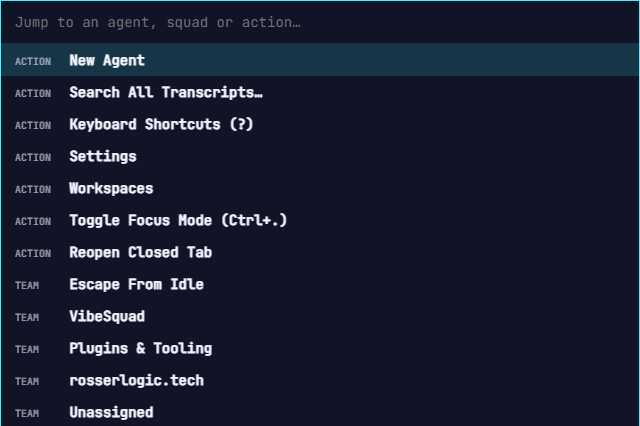
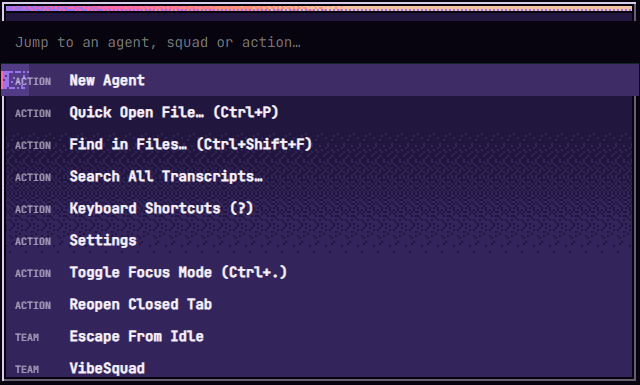
Gate 23: /vibesquad v0.3.0 how-it-works deep-dive, P0 j8/j12 screenshots & 0.3.0 metrics

diff --git a/personal-site/templates/vibesquad.html b/personal-site/templates/vibesquad.html
@@ -161,7 +161,7 @@
     /* Portrait shots: cap the figure and centre it in the column */
     .pitch-a .shot-portrait { max-width: 390px; margin-inline: auto; }
     .pitch-a .shot-grid { display: grid; grid-template-columns: 1fr; gap: 1rem; }
-    @media (min-width: 900px) { .pitch-a .shot-grid { grid-template-columns: 1fr 1fr; } .pitch-a .shot-grid--narrow-first { grid-template-columns: 1fr 2fr; align-items: start; } }
+    @media (min-width: 900px) { .pitch-a .shot-grid { grid-template-columns: 1fr 1fr; } .pitch-a .shot-grid.shot-grid--stack { grid-template-columns: 1fr; } .pitch-a .shot-grid--narrow-first { grid-template-columns: 1fr 2fr; align-items: start; } }
     .pitch-a .shot-body { padding: .5rem; }
     .pitch-a .shot-body img { display: block; width: 100%; height: auto; background: var(--be-surface); }
     .pitch-a .shot-phone .shot-body { display: flex; justify-content: center; padding: .75rem; }
@@ -186,8 +186,48 @@
         padding: .15rem .5rem; border: 2px solid var(--be-ink); border-radius: 2px;
     }
     .pitch-a .pill-measured { color: var(--be-on-accent); background: var(--be-cel-teal); }
-    .pitch-a .pill-fact { color: var(--be-ink); background: var(--be-surface); }
     .pitch-a .pill-projected { color: var(--be-crt); background: var(--be-sunset-orange); }
+
+    /* --- Under the hood (How it works, part 2) --- */
+    .pitch-a .how-deep { margin: 2.5rem auto 0; max-width: 980px; }
+    .pitch-a .how-h3 {
+        font-family: var(--font-display); font-weight: 400;
+        font-size: clamp(1.25rem, 3.4vw, 1.6rem); line-height: 1.2;
+        color: var(--be-ink); margin: 0 0 .75rem;
+    }
+    .pitch-a .how-intro { margin: 0 0 1.25rem; color: var(--be-ink); line-height: 1.6; max-width: 70ch; }
+    .pitch-a .how-grid { display: grid; grid-template-columns: 1fr; gap: 1rem; }
+    @media (min-width: 900px) {
+        .pitch-a .how-grid { grid-template-columns: 1fr 1fr; }
+        .pitch-a .how-card--wide { grid-column: 1 / -1; }
+    }
+    .pitch-a .how-card {
+        border: 2px solid var(--be-ink); background: var(--be-surface);
+        box-shadow: var(--shadow-window); padding: 1rem 1rem 1.1rem; min-width: 0;
+    }
+    .pitch-a .how-card-title {
+        font-family: var(--font-display); font-weight: 400; font-size: 1.1rem; line-height: 1.25;
+        color: var(--be-ink); margin: 0 0 .6rem;
+    }
+    .pitch-a .how-card p { margin: 0 0 .65rem; color: var(--be-ink); line-height: 1.6; overflow-wrap: anywhere; }
+    .pitch-a .how-card p:last-child { margin-bottom: 0; }
+    .pitch-a .how-card code { font-size: 1em; color: var(--be-ink); overflow-wrap: anywhere; }
+    .pitch-a .how-steps { list-style: none; margin: 0; padding: 0; display: flex; flex-direction: column; gap: .85rem; }
+    .pitch-a .how-step { display: flex; flex-direction: column; gap: .3rem; align-items: flex-start; min-width: 0; }
+    .pitch-a .how-step p { margin: 0; }
+    .pitch-a .how-step-name { font-weight: 700; }
+    .pitch-a .how-badge {
+        display: inline-block;
+        font-family: var(--font-pixel); font-size: .65rem; letter-spacing: .08em; line-height: 1.4;
+        padding: .15rem .5rem; border-radius: 2px; white-space: nowrap;
+    }
+    /* Two shapes as well as two colours: dashed outline = agents are told to, solid fill = code refuses. */
+    .pitch-a .how-badge--prompt { color: var(--be-ink); background: transparent; border: 2px dashed var(--be-ink); }
+    .pitch-a .how-badge--server { color: var(--be-on-accent); background: var(--be-cel-teal); border: 2px solid var(--be-ink); }
+    @media (min-width: 560px) {
+        .pitch-a .how-step { flex-direction: row; gap: .75rem; }
+        .pitch-a .how-step .how-badge { flex: 0 0 8.5rem; text-align: center; }
+    }
 
     /* Sprites at integer scale: x2 desktop (128px), x1 at <=480px (64px) */
     @media (max-width: 480px) {
@@ -278,7 +318,7 @@
             <span class="card-label vs-tag">AGENTIC DEVELOPMENT ENVIRONMENT</span>
             <h1 class="page-title">{{ page.title }}</h1>
             <p class="vs-lede">An app for running a squad of AI coding agents. You bring the ideas; it keeps them sorted, keeps each agent in its own lane, sends work to the right model, and checks the work before it gets to you.</p>
-            <p class="vs-beta">In public beta on Windows, as a desktop app and a web UI, with an Android phone app. Version 0.3 is feature-frozen: fixes only.</p>
+            <p class="vs-beta">Version 0.3.0 is on the stable channel (released Nov 12, 2026), for Windows: a desktop app and a local web UI, with a phone cockpit you can pair over your LAN or a VPN mesh. The Android app is not part of that release. Read the <a href="https://pizzarar.github.io/VibeSquad/how-it-works.html" target="_blank" rel="noopener noreferrer">interactive tour of how it works</a> or the <a href="https://github.com/Pizzarar/VibeSquad/releases/tag/v0.3.0" target="_blank" rel="noopener noreferrer">v0.3.0 release</a>.</p>
           </div>
           <figure class="vs-hero">
             <img class="pixelated" src='/static/previews/pitch/hero-diorama.png' width="352" height="472"
@@ -286,58 +326,6 @@
             <figcaption class="shot-cap">Agent-drawn pixel art</figcaption>
           </figure>
         </header>
-
-        <section class="pitch-section" aria-labelledby="pitch-made">
-            <h2 id="pitch-made" class="pitch-h2">Who made it</h2>
-            <div class="saved">
-                <ul class="saved-rows">
-                    <li class="saved-row">
-                        <span class="pill pill-fact">ROLE</span>
-                        <p>Aub designed and directed VibeSquad: set the goals, made the product and design calls, chose the architecture direction and reviewed the results. AI agents were the workforce and wrote most of the code. Running them well is the hard part: splitting work across agents, keeping them from colliding, routing models by risk and cost, verifying output, and recovering from failures, quota limits and full context windows.</p>
-                    </li>
-                    <li class="saved-row">
-                        <span class="pill pill-fact">SCALE</span>
-                        <p>About 1,900 commits and about 90,000 lines of application code (raw line counts, blanks and comments included) landed between 2026-11-01 and 2026-11-10. The commit count measures how much the agent workforce got through, not hand-typed work.</p>
-                    </li>
-                    <li class="saved-row">
-                        <span class="pill pill-fact">STATUS</span>
-                        <p>Pre-1.0 (v0.2.7), used by its designer and still being tested live. It is not a commercial product: no customers, no user count.</p>
-                    </li>
-                </ul>
-            </div>
-        </section>
-
-        <section class="pitch-section" aria-labelledby="pitch-inside">
-            <h2 id="pitch-inside" class="pitch-h2">What is inside</h2>
-            <div class="saved">
-                <ul class="saved-rows">
-                    <li class="saved-row">
-                        <span class="pill pill-fact">TEAMS</span>
-                        <p>Squads hold feature lanes. Each lane has one brainstorm Buddy, one Lead and short-lived Workers in their own git worktrees. A shared team log and an idea inbox keep lanes in sync. Identity comes from labels, never from agent titles.</p>
-                    </li>
-                    <li class="saved-row">
-                        <span class="pill pill-fact">ROUTING</span>
-                        <p>Each task carries a stakes label, and the stakes pick the model and effort: top model for security work, small model for mechanical work. When a provider's quota passes 95%, a counterpart profile on another provider takes over.</p>
-                    </li>
-                    <li class="saved-row">
-                        <span class="pill pill-fact">REVIEW</span>
-                        <p>Work is reviewed by a different model family than wrote it. Security and invariant-critical changes get a stricter review. Worker reports are structured: PASS or FAIL, what changed, commit hash, evidence.</p>
-                    </li>
-                    <li class="saved-row">
-                        <span class="pill pill-fact">SELF-HEALING</span>
-                        <p>Agents resume safely after a server restart, leads hand off automatically before their context runs out, and stall watches catch agents that stop. VibeSquad runs on its own agent runner, which fully replaced the third-party daemon it started on.</p>
-                    </li>
-                    <li class="saved-row">
-                        <span class="pill pill-fact">WHERE IT RUNS</span>
-                        <p>Web app, Windows desktop app (Tauri), and an Android app plus phone PWA that pair by QR code over LAN or a VPN mesh. Loopback-only by default, with no outbound telemetry. An end-to-end-encrypted relay is designed and written host-side, but not wired in yet.</p>
-                    </li>
-                    <li class="saved-row">
-                        <span class="pill pill-fact">TWO MODES</span>
-                        <p>Normal is a plain ADE layout: a Projects and Conversations sidebar, card dashboards, a compact header. Psycho is the playful mode: a pixel-art office where the agents appear as sprite characters. Both have light and dark themes.</p>
-                    </li>
-                </ul>
-            </div>
-        </section>
 
         <section class="pitch-section" aria-labelledby="pitch-how">
             <h2 id="pitch-how" class="pitch-h2">How it works</h2>
@@ -411,6 +399,42 @@
                 </li>
             </ol>
             <p class="chart-label">Portraits: agent-drawn pixel art from VibeSquad's sprite generator.</p>
+
+            <div class="how-deep">
+                <h3 class="how-h3">Under the hood: how the program actually works</h3>
+                <p class="how-intro">The three steps above are the short version. Underneath, VibeSquad is a process runner, a local server and a command-line tool, and its agents pass files to each other instead of chat history. Rules below are tagged: a <strong>PROMPT RULE</strong> is something agents are told to do; a <strong>SERVER CHECK</strong> is code that refuses the action.</p>
+                <div class="how-grid">
+                    <section class="how-card" aria-labelledby="how-c1">
+                        <h4 id="how-c1" class="how-card-title">1. Runtime, adapters and local server</h4>
+                        <p>The <code>runner/</code> process starts the coding CLIs you already have signed in (Claude Code, Gemini / Antigravity, OpenCode and Codex) as child sessions, through one adapter per provider; several are driven over the Agent Client Protocol. The <code>server/</code> process serves the web UI and an HTTP API on port 4180 by default, and routes messages between agents.</p>
+                        <p>The <code>vs</code> command-line tool, and the same actions as MCP tools, are how an agent logs to the team, messages another agent, makes a worktree or waits on other agents. The server listens on 127.0.0.1 only until you turn on LAN or VPN-mesh access.</p>
+                    </section>
+                    <section class="how-card" aria-labelledby="how-c2">
+                        <h4 id="how-c2" class="how-card-title">2. Squads, lanes and file-based handoffs</h4>
+                        <p>A Squad is one project. Its hub Lead, the Overlord, looks after the whole Squad, which is split into lanes such as bugs or usage. A lane has a Buddy you talk to, a Lead, and short-lived Workers that each do one block in their own git worktree.</p>
+                        <p>Agents don't inherit each other's chats. What travels is files: each lane keeps a SPEC.md and a TASKS.json, and a restarted Buddy reads a brief of about 5k tokens instead of a chat of about 150k. A Lead is flagged at 150k tokens of context, compacted in place if idle, and handed to a successor at 250k (hard cap 300k). The successor reads a handoff packet, including a Judgment section that the old Lead writes; messages sent to the old Lead are redirected to it.</p>
+                    </section>
+                    <section class="how-card how-card--wide" aria-labelledby="how-c3">
+                        <h4 id="how-c3" class="how-card-title">3. The seven steps of one unit of work</h4>
+                        <ol class="how-steps">
+                            <li class="how-step"><span class="how-badge how-badge--prompt">PROMPT RULE</span><p><span class="how-step-name">Talk to the Buddy.</span> It reads the lane brief and checks what already exists (the workflow index, <code>vs --help</code>) before proposing anything new. Off-topic ideas go to an idea inbox.</p></li>
+                            <li class="how-step"><span class="how-badge how-badge--prompt">PROMPT RULE</span><p><span class="how-step-name">Write the plan.</span> A table of blocks: what each touches and which ones clash. Each block is marked Root cause or Workaround, and a workaround has to name the follow-up that replaces it.</p></li>
+                            <li class="how-step"><span class="how-badge how-badge--server">SERVER CHECK</span><p><span class="how-step-name">Start a Lead.</span> Refused unless the caller is that lane's Buddy or the Squad's Overlord, the lane exists in the team registry, the profile is a Lead profile and the lane has no live Lead. Role and handoff labels supplied by the caller are stripped.</p></li>
+                            <li class="how-step"><span class="how-badge how-badge--prompt">PROMPT RULE</span><p><span class="how-step-name">Workers in worktrees.</span> The Lead is told to give each Worker its own git worktree (<code>vs worktree create</code>). Separately, in code, a spawn's stakes tier picks the model and effort, and a provider past 95% of its quota hands over to a counterpart profile on another provider.</p></li>
+                            <li class="how-step"><span class="how-badge how-badge--prompt">PROMPT RULE</span><p><span class="how-step-name">Review.</span> A different agent reviews the diff, normally from another model family, and answers whether the change fixes the cause or hides the symptom. Its first line is PASS or FAIL, three counts and the commit it reviewed. Nothing in code forces which reviewer is used.</p></li>
+                            <li class="how-step"><span class="how-badge how-badge--prompt">PROMPT RULE</span><p><span class="how-step-name">Merge.</span> Before merging, the Lead is told to run <code>vs verdict</code> (added after 0.3.0, so not in the 0.3.0 installer). That command is code: it exits 0 only if the reviewer's own first line is a PASS for the exact commit at the branch tip. But nothing stops a merge that skips it. Each merge also carries a trailer saying what the change needs live to take effect (a rebuild, a reload, a runner or server restart).</p></li>
+                            <li class="how-step"><span class="how-badge how-badge--prompt">PROMPT RULE</span><p><span class="how-step-name">Release.</span> Agents are told never to run release, publish, tag or signing scripts. They send a request to the Release Desk lane, and you give the final go.</p></li>
+                        </ol>
+                    </section>
+                    <section class="how-card how-card--wide" aria-labelledby="how-c4">
+                        <h4 id="how-c4" class="how-card-title">4. Per-agent identity, loopback proofs and pairing</h4>
+                        <p><span class="how-badge how-badge--server">SERVER CHECK</span></p>
+                        <p>When the runner starts an agent it makes a random 32-byte token for it and hands it over only as an environment variable of that agent's process. It stays in memory: never in a command line, a log or a saved file. Every <code>vs</code> or MCP write from an agent carries the token and the server compares it in constant time. A request that names an agent but has a missing or wrong token is refused with a 403 before anything is sent, and is never treated as the owner. A Worker may write only metric entries and its own done or blocker entries to the team log. This was a breaking change in 0.3.0: a script that calls <code>vs</code> with an agent id but no token now gets a 403.</p>
+                        <p>Before any client sends a token, the <code>vs</code> tool, the MCP server and the desktop proxy ask the local server for a signed proof (an HMAC over a fresh nonce and the port) over the same connection, so a different program listening on that port never receives it. Browser writes that rely on a cookie need a same-origin proof.</p>
+                        <p>To pair a phone you scan a QR code or type a one-time 6-digit code, compare the CA fingerprint, and can revoke any paired device at once. The end-to-end-encrypted relay is wired in on the host side but off by default; it only starts if you hand-edit a <code>wss://</code> endpoint into your settings, and no hosted relay ships. Agents run as your own OS user, so this separates agents' identities from each other, not from your files.</p>
+                    </section>
+                </div>
+            </div>
         </section>
 
         <section class="pitch-section" aria-labelledby="pitch-got-here">
@@ -521,7 +545,7 @@
                 <li class="beat" data-reveal>
                     <div class="beat-text">
                         <h3 class="beat-quote">"Then I wanted it on my phone":</h3>
-                        <p class="beat-line">a phone PWA, an Android app and a Windows desktop app, paired by QR code.</p>
+                        <p class="beat-line">phone app (PWA) and a desktop app.</p>
                     </div>
                     <figure class="shot shot-phone shot-portrait">
                         <div class="window">
@@ -535,7 +559,7 @@
                 <li class="beat" data-reveal>
                     <div class="beat-text">
                         <h3 class="beat-quote">"Then it needed to install like a real app":</h3>
-                        <p class="beat-line">a one-step Windows installer with its runtime bundled, a first-run checklist, and a GitHub-based updater.</p>
+                        <p class="beat-line">a one-step Windows installer with its runtime bundled, a first-run checklist, and signed auto-updates on a stable or beta channel.</p>
                     </div>
                     <figure class="shot">
                         <div class="window">
@@ -555,14 +579,14 @@
                         <figure class="shot">
                             <div class="window">
                                 <div class="window-bar"><span>vibesquad &middot; files</span><span class="controls" aria-hidden="true"></span></div>
-                                <div class="window-body shot-body"><a href='/static/previews/pitch/j8a-files-panel.png' target="_blank" rel="noopener noreferrer" aria-label="Open full-size screenshot"><img src='/static/previews/pitch/j8a-files-panel.png' width="320" height="539" loading="lazy" alt="The Files panel in the side dock, listing the VibeSquad repo's folders and files, next to the Changes, Terminal and Scripts tabs"></a></div>
+                                <div class="window-body shot-body"><a href='/static/previews/pitch/j8a-files-panel.png' target="_blank" rel="noopener noreferrer" aria-label="Open full-size screenshot"><img src='/static/previews/pitch/j8a-files-panel.png' width="320" height="376" loading="lazy" alt="The Files panel in the side dock, listing a project's folders and files, next to the Changes, Terminal and Scripts tabs"></a></div>
                             </div>
                             <figcaption class="shot-cap">Files panel</figcaption>
                         </figure>
                         <figure class="shot">
                             <div class="window">
                                 <div class="window-bar"><span>vibesquad &middot; ctrl+k</span><span class="controls" aria-hidden="true"></span></div>
-                                <div class="window-body shot-body"><a href='/static/previews/pitch/j8b-command-palette.png' target="_blank" rel="noopener noreferrer" aria-label="Open full-size screenshot"><img src='/static/previews/pitch/j8b-command-palette.png' width="640" height="426" loading="lazy" alt="The command palette listing actions such as New Agent and Search All Transcripts, then the teams"></a></div>
+                                <div class="window-body shot-body"><a href='/static/previews/pitch/j8b-command-palette.png' target="_blank" rel="noopener noreferrer" aria-label="Open full-size screenshot"><img src='/static/previews/pitch/j8b-command-palette.png' width="640" height="385" loading="lazy" alt="The command palette opened over the app, listing actions such as New Agent and Search All Transcripts, then the squads"></a></div>
                             </div>
                             <figcaption class="shot-cap">Command palette</figcaption>
                         </figure>
@@ -585,8 +609,8 @@
 
                 <li class="beat beat--grid" data-reveal>
                     <div class="beat-text">
-                        <h3 class="beat-quote">"Then the squad moved into an office tower" (Psycho mode):</h3>
-                        <p class="beat-line">This is the playful Psycho mode; Normal mode is the plain layout. RiffBot (the squad's brainstorm buddy) and the Overlord (its lead) get a TV each in the sky above the tower. Below, each lane is an office floor with desks, a lead's desk and a shared elevator.</p>
+                        <h3 class="beat-quote">"Then the squad moved into an office tower":</h3>
+                        <p class="beat-line">RiffBot (the squad's brainstorm buddy) and the Overlord (its lead) get a TV each in the sky above the tower. Below, each lane is an office floor with desks, a lead's desk and a shared elevator.</p>
                     </div>
                     <div class="shot-grid">
                         <figure class="shot">
@@ -616,22 +640,22 @@
                 <li class="beat beat--grid" data-reveal>
                     <div class="beat-text">
                         <h3 class="beat-quote">"Then it started auditing its own usage, and judging its own workflows":</h3>
-                        <p class="beat-line">a usage panel shows each provider's % used, reset time and burn rate, plus a split of tokens by role. On a schedule an Opus and a Gemini review read the numbers side by side and suggest routing changes; the prompt also hands them the previous review's advice to grade against the new numbers. The work is split in three: Usage measures, a Workflows lane (@perfection) judges, and the Bugs lane fixes. Workflows turns a doubt into an A/B routing or boot experiment and logs a keep, change or ruled-out verdict, shipped as config or code rather than another prompt rule. In the Psycho layout a CRT-style Perfection panel sits above the Usage panel. Screens use sample data.</p>
+                        <p class="beat-line">a usage panel shows each provider's % left, reset time and burn rate and a split of tokens by role, and later gained a Squad filter. On a schedule (off, or every 6 hours up to every 2 weeks, or on demand) an Opus review and a Gemini review read the numbers and suggest routing changes; the prompt also hands them the previous review's advice to grade against the new numbers. Their suggestions, and bug reports, land in a mail-style triage inbox in a CRT-style Perfection panel at the top, where you accept or reject each one. Below it, a trend view splits clean shipping from rework, loops and restarts. Three additions landed after 0.3.0 and are not in the 0.3.0 installer: a scorecard of how autonomous the squads are (units per owner touch, the streak of merges with no help, needs-you pings per unit, stalls), a gauge comparing the runner's spawn-to-ready time with the old third-party daemon's, and last-10-versus-prior-10 cohort trends. The work is split in three: Usage measures, a Workflows lane judges, and the Bugs lane fixes. Workflows turns a doubt into an A/B routing or boot experiment and logs a keep, change or ruled-out verdict, shipped as config or code rather than another prompt rule. Screens use sample data.</p>
                     </div>
-                    <div class="shot-grid">
+                    <div class="shot-grid shot-grid--stack">
                         <figure class="shot">
                             <div class="window">
                                 <div class="window-bar"><span>usage &middot; limits</span><span class="controls" aria-hidden="true"></span></div>
-                                <div class="window-body shot-body"><a href='/static/previews/pitch/j12a-usage-floor.png' target="_blank" rel="noopener noreferrer" aria-label="Open full-size screenshot"><img src='/static/previews/pitch/j12a-usage-floor.png' width="785" height="305" loading="lazy" alt="Usage panel: Gemini and Claude cards with percent used, reset time and burn rate, and a role split of tokens and cost for Brainstorm, Lead and Worker"></a></div>
+                                <div class="window-body shot-body"><a href='/static/previews/pitch/j12a-usage-floor.png' target="_blank" rel="noopener noreferrer" aria-label="Open full-size screenshot"><img src='/static/previews/pitch/j12a-usage-floor.png' width="992" height="789" loading="lazy" alt="The top of the Usage panel with sample data: a pixel-art angel banner and a CRT-style Perfection panel with a mail-style triage inbox of bug and review suggestions, each with Accept and Reject buttons, then a Squad filter and provider limit cards showing percent left and percent used"></a></div>
                             </div>
-                            <figcaption class="shot-cap">Limits and role split</figcaption>
+                            <figcaption class="shot-cap">Triage inbox, Squad filter and limits (sample data)</figcaption>
                         </figure>
                         <figure class="shot">
                             <div class="window">
                                 <div class="window-bar"><span>usage &middot; review</span><span class="controls" aria-hidden="true"></span></div>
-                                <div class="window-body shot-body"><a href='/static/previews/pitch/j12b-usage-review.png' target="_blank" rel="noopener noreferrer" aria-label="Open full-size screenshot"><img src='/static/previews/pitch/j12b-usage-review.png' width="940" height="370" loading="lazy" alt="The Usage Review card with an Opus column and a Gemini column of routing and loop suggestions, and a Run now button"></a></div>
+                                <div class="window-body shot-body"><a href='/static/previews/pitch/j12b-usage-review.png' target="_blank" rel="noopener noreferrer" aria-label="Open full-size screenshot"><img src='/static/previews/pitch/j12b-usage-review.png' width="992" height="889" loading="lazy" alt="Expanded Usage sections with sample data: an autonomy scorecard with units per owner touch and a per-squad table, a ready-time gauge comparing runner spawn time with the old daemon, and a trend view of clean shipping against rework"></a></div>
                             </div>
-                            <figcaption class="shot-cap">Opus and Gemini review</figcaption>
+                            <figcaption class="shot-cap">Autonomy scorecard, ready-time gauge and trend (sample data)</figcaption>
                         </figure>
                     </div>
                 </li>
@@ -662,7 +686,7 @@
                 <li class="beat beat--grid" data-reveal>
                     <div class="beat-text">
                         <h3 class="beat-quote">"Then 0.3 froze features to harden the runner and phone cockpit":</h3>
-                        <p class="beat-line">for 0.3, new features stopped so every lane only chased bugs, security and stability. VibeSquad's own agent runner replaced the old third-party daemon completely. <code>vs restart</code> waits for active turns, restarts the runner and server, and resumes agents that were cut off mid-turn. Each agent gets its own memory-only token, and cookie writes need a same-origin proof. The phone got a dedicated cockpit with Overlord, RiffBot and Buddy tabs, a quick bug sheet and a one-tap Claude/Gemini switch. Pairing is by QR code or 6-digit code over LAN or a VPN mesh, checked against the host's CA fingerprint, and a paired device can be revoked at once. An end-to-end-encrypted relay (X25519 key agreement, AES-256-GCM) is designed and wired on the host side, off by default, with no hosted relay. The pairing screen here is a mock-up with placeholder values, not a real session.</p>
+                        <p class="beat-line">for 0.3, new features stopped so every lane only chased bugs, security and stability, and 0.3.0 shipped on the stable channel on Nov 12, 2026. VibeSquad's own agent runner replaced the old third-party daemon completely. <code>vs restart</code> waits for active turns, restarts the runner and server, and resumes agents that were cut off mid-turn. Each agent gets its own memory-only token, and cookie writes need a same-origin proof. The phone got a dedicated cockpit with Overlord, RiffBot and Buddy tabs, a quick bug sheet and a one-tap Claude/Gemini switch. Pairing is by QR code or 6-digit code over LAN or a VPN mesh, checked against the host's CA fingerprint, and a paired device can be revoked at once. An end-to-end-encrypted relay (X25519 key agreement, AES-256-GCM) is designed and wired on the host side, off by default, with no hosted relay. The pairing screen here is a mock-up with placeholder values, not a real session.</p>
                     </div>
                     <div class="shot-grid shot-grid--narrow-first">
                         <figure class="shot">
@@ -708,7 +732,7 @@
                     </li>
                     <li class="saved-row">
                         <span class="pill pill-measured">MEASURED</span>
-                        <p>Two runner fixes for desktop disconnects: the worst cold status-scan stall dropped from 4,101 ms to 29 ms (the scan now yields between slices), and runner boot dropped from about 2.25 s to about 1.3 s on a 199 MB agent directory (each log is parsed once). Over the 10 days to the 0.3 freeze (Nov 1&ndash;10, 2026) the repo reached 1,898 commits, about 90,000 lines of application code and about 61,700 lines of tests in 316 test files. The latest full-suite run was 3,245 tests with 3,231 passing; the rest are known failures queued as bugs. Raw line counts include blanks and comments, and most commits are agents committing often, so this is throughput, not hand-typed work.</p>
+                        <p>Two runner fixes for desktop disconnects: the worst cold status-scan stall dropped from 4,101 ms to 29 ms (the scan now yields between slices), and runner boot dropped from about 2.25 s to about 1.3 s on a 199 MB agent directory (each log is parsed once). Over the 10 days to the 0.3 freeze (Nov 1&ndash;10, 2026) the repo reached 1,898 commits, about 90,000 lines of application code and about 61,700 lines of tests in 316 test files. The full suite at the v0.3.0 build was 3,477 tests in 220 suites: 3,466 passing, 0 failing, 11 skipped. The release covers 242 commits since 0.2.9. After 0.3.0, the Usage panel's ready-time gauge was added; it uses reference figures of about 0.45 s for a runner spawn against about 165 s for the old third-party daemon (about 367 times faster; the gauge states it as a fixed baseline, not a per-run measurement). Raw line counts include blanks and comments, and most commits are agents committing often, so this is throughput, not hand-typed work.</p>
                     </li>
                 </ul>
             </div>

diff --git a/personal-site/content/pages/index.md b/personal-site/content/pages/index.md
@@ -34,7 +34,7 @@ image: /static/sprites/og-home.png
   <div class="window-bar"><span id="projects-title">PROJECTS.DIR</span><span class="controls" aria-hidden="true"></span></div>
   <div class="window-body">
     <div class="card-grid">
-      <a class="card" href="/vibesquad"><span class="card-label"><img class="pixelated" src='/static/sprites/icon-terminal.png' width="32" height="32" alt="" aria-hidden="true">DESKTOP APP</span><h3>VibeSquad</h3><p>A local-first app that runs a squad of Claude, Gemini and DeepSeek coding agents, with review gates and model routing by risk. Designed and directed with AI agents as the workforce. Pre-1.0.</p></a>
+      <a class="card" href="/vibesquad"><span class="card-label"><img class="pixelated" src='/static/sprites/icon-terminal.png' width="32" height="32" alt="" aria-hidden="true">DESKTOP APP</span><h3>VibeSquad</h3><p>Run coding agents as Squads: you talk ideas through with a brainstorm buddy, and a lead splits the plan up and sends each piece to the cheapest model that can handle it.</p></a>
       <a class="card" href="/escape-from-idle"><span class="card-label"><img class="pixelated" src='/static/sprites/icon-controller.png' width="32" height="32" alt="" aria-hidden="true">IN DEVELOPMENT</span><h3>Escape From Idle</h3><p>A post-apocalyptic idle game with Tarkov-style extraction raids and a Melvor-style ladder from manual play to automation.</p></a>
       <a class="card" href="/projects/pssst"><span class="card-label"><img class="pixelated" src='/static/sprites/icon-phone.png' width="32" height="32" alt="" aria-hidden="true">ANDROID + RUNELITE</span><h3>Pssst: OSRS Companion</h3><p>Farming patches, birdhouses, and Grand Exchange offers, surfaced on your phone over your own home LAN, with no open ports and no third-party server in the middle.</p></a>
       <a class="card" href="/projects/sportsballbattles"><span class="card-label"><img class="pixelated" src='/static/sprites/icon-controller.png' width="32" height="32" alt="" aria-hidden="true">GODOT</span><h3>SportsBallBattles</h3><p>An arcade football auto-battler: draft and upgrade a roster, then watch 3D active-ragdoll chaos play out on Game Day.</p></a>

diff --git a/personal-site/content/pages/projects.md b/personal-site/content/pages/projects.md
@@ -10,7 +10,7 @@ extra:
 <section aria-labelledby="featured-title" id="featured">
 <h2 id="featured-title">Featured</h2>
 <div class="card-grid">
-  <a class="card" href="/vibesquad"><span class="card-label">DESKTOP APP</span><h3>VibeSquad</h3><p>A local-first app that runs a squad of Claude, Gemini and DeepSeek coding agents, with review gates and model routing by risk. Designed and directed with AI agents as the workforce. Pre-1.0.</p><div class="tag-row"><span class="tag">Squads</span><span class="tag">Normal + Psycho</span><span class="tag">Desktop + Android</span></div></a>
+  <a class="card" href="/vibesquad"><span class="card-label">DESKTOP APP</span><h3>VibeSquad</h3><p>Run coding agents as Squads: you talk ideas through with a brainstorm buddy, and a lead splits the plan up and sends each piece to the cheapest model that can handle it.</p><div class="tag-row"><span class="tag">Squads</span><span class="tag">Buddy + Lead</span><span class="tag">Desktop App</span></div></a>
   <a class="card" href="/escape-from-idle"><span class="card-label">IN DEVELOPMENT</span><h3>Escape From Idle</h3><p>A post-apocalyptic idle game with Tarkov-style extraction raids and a Melvor-style ladder from manual play to full automation.</p><div class="tag-row"><span class="tag">Idle</span><span class="tag">Extraction Raids</span><span class="tag">Automation Ladder</span></div></a>
 </div>
 </section>

diff --git a/personal-site/content/pages/vibesquad.md b/personal-site/content/pages/vibesquad.md
@@ -2,7 +2,7 @@
 title: "VibeSquad"
 template: vibesquad.html
 image: /static/sprites/og-vibesquad.png
-description: "VibeSquad, a local-first app for running a squad of Claude, Gemini and DeepSeek coding agents: how it works, who made it, and the journey that built it."
+description: "VibeSquad, an app for running a squad of AI coding agents: how it works and the journey that built it."
 aliases: [/pitch, /projects/roster]
 extra:
   custom_h1: true
